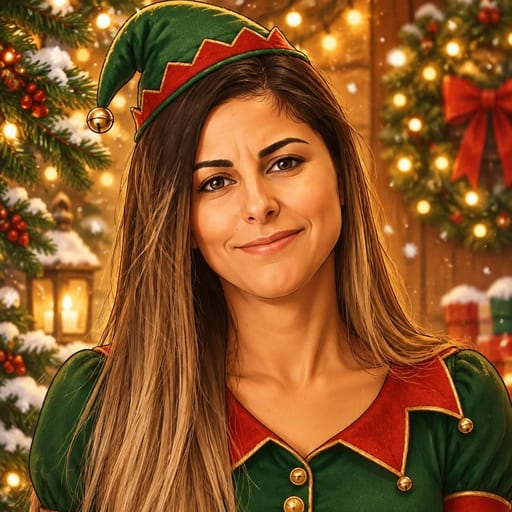
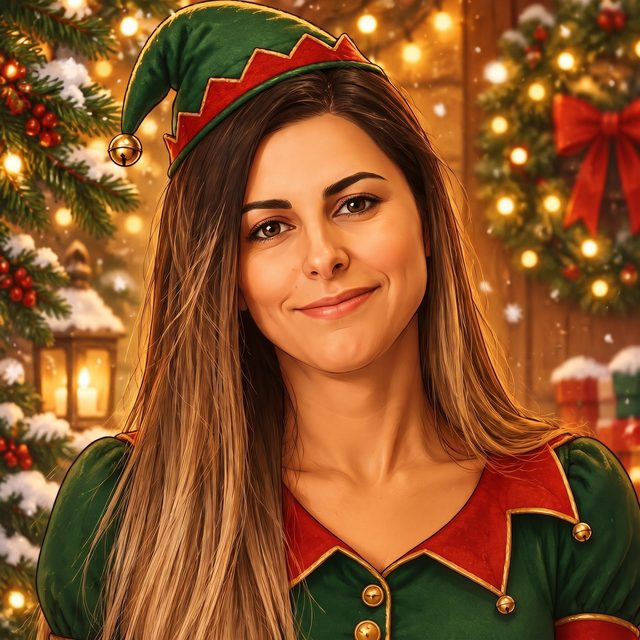
replace images

diff --git a/src/components/fun/MemoryMatch.tsx b/src/components/fun/MemoryMatch.tsx
@@ -149,7 +149,7 @@ export default function MemoryMatch() {
                     src={card.photo}
                     alt=""
                     className="h-full w-full object-cover"
-                    style={{ objectPosition: "50% 32%" }}
+                    style={{ objectPosition: "50% 46%" }}
                   />
                   <span className="absolute inset-x-0 bottom-0 truncate bg-[rgba(9,30,24,0.8)] px-2 py-1 text-center text-[0.68rem] text-ivory">
                     {card.name}

diff --git a/src/components/Avatar.tsx b/src/components/Avatar.tsx
@@ -59,7 +59,7 @@ export default function Avatar({
           width={size}
           height={size}
           className="h-full w-full object-cover"
-          style={{ objectPosition: "50% 32%" }}
+          style={{ objectPosition: "50% 46%" }}
         />
       </div>
     );

diff --git a/src/server/campaign.ts b/src/server/campaign.ts
@@ -81,7 +81,7 @@ const ELF_PHOTO_FILES: Readonly<Record<(typeof PARTICIPANT_NAMES)[number], strin
   karen: "karen.jpeg",
   elia: "elia.jpeg",
   pia: "pia.jpeg",
-  carole: "carole-realistic.jpeg",
+  carole: "carole.jpeg",
   lara: "lara.jpeg",
   rouaida: "rouaida.jpeg",
 };

diff --git a/src/app/globals.css b/src/app/globals.css
@@ -20,7 +20,7 @@
 @layer base {
   html {
     -webkit-text-size-adjust: 100%;
-    font-size: 116%;
+    font-size: 106%;
   }
 
   body {
